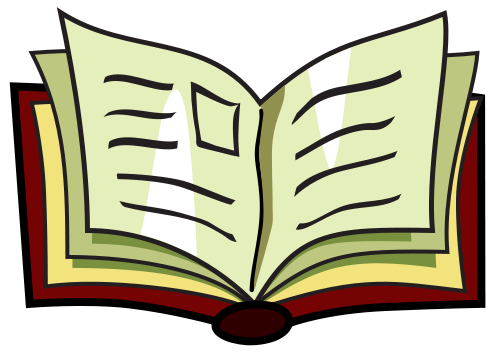
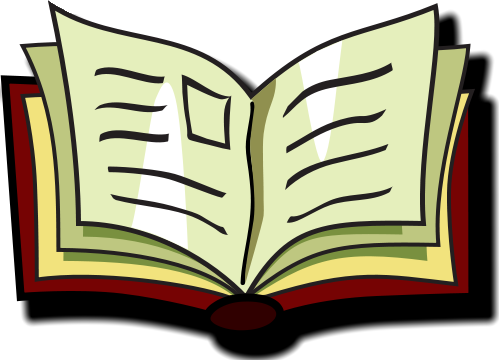
recipes page mobile portrait views complete

diff --git a/src/components/Recipes/Recipes.css b/src/components/Recipes/Recipes.css
@@ -2,6 +2,9 @@
     text-align: center;
     margin-left: auto;
     margin-right: auto;
+    box-shadow: 0 -5px 10px -5px;
+    width: 100vw;
+    height: 100vh;
 }
 
 .Recipes_title {
@@ -12,37 +15,46 @@
 
 .RecipesList_container {
     background-image: url('../../assets/open_book.png');
-    background-size: 90% 90%;
+    background-size: 100% 100%;
     background-repeat: no-repeat;
-    margin-left: auto;
+    margin-left: 4%;
     margin-right: auto;
     display: block;
-    width: 95vw;
-    height: 60vh;
+    width: 90vw;
+    height: 55vh;
     padding: 2vh;
 }
 
 .RecipesList {
-    width: 85%;
-    margin-left: 4.5%;
+    width: 80%;
+    margin-left: 15%;
     margin-right: auto;
     margin-bottom: 1vh;
-    margin-top: .5vh;
-    height: 49vh;
+    height: 96%;
     overflow: scroll;
     padding: 1vh;
-    padding-left: 11vw;
     font-weight: bolder;
     border-radius: 15px;
+    background-color: #F0EAD6;
 }
 
 .Recipes .ingredients {
-    border: 5px solid black;
-    border-radius: 15px;
-    background-color: white;
-    padding: 10px;
+    background-image: url('../../assets/boxed_food.png');
+    background-color: transparent;
+    background-repeat: no-repeat;
+    background-size: 100%;
+    width: 30vw;
+    height: 18vh;
+    border: none;
     display: block;
     margin-left: auto;
     margin-right: auto;
     font-weight: bolder;
+}
+
+/* iPad 768x1024 Portrait */
+@media only screen and (min-width: 768px) and (min-height: 1024px) {
+    .Recipes {
+
+    }
 }

diff --git a/src/components/Pantry/Pantry.css b/src/components/Pantry/Pantry.css
@@ -1,6 +1,6 @@
 /* Mobile Phone Portrait */
 .Pantry {
-    box-shadow: -1px -5px 10px;
+    box-shadow: 0 -5px 10px -5px;
 }
 
 .Pantry_title {
@@ -107,10 +107,6 @@
 }
 
 .recipes {
-    border-bottom: .5vh solid rgb(90, 88, 80);
-    border-right: .5vh solid rgb(90, 88, 80);
-    border-radius: 15px;
-    background-color: #F0EAD6;
     padding: 5px;
     display: block;
     margin-top: 4vh;
@@ -118,7 +114,6 @@
     margin-right: auto;
     font-weight: bolder;
     width: 30vw;
-    box-shadow: 10px 10px 10px black;
 }
 
 /* iPhone X 375x812 Portrait */

diff --git a/src/components/GuestRecipes/GuestRecipes.js b/src/components/GuestRecipes/GuestRecipes.js
@@ -35,7 +35,7 @@ export default class GuestRecipes extends React.Component {
                         {this.renderRecipes()}
                     </ul>
                 </section>
-                <button className='ingredients' onClick={this.handleIngredientsClick}>Ingredients</button>
+                <button className='ingredients' onClick={this.handleIngredientsClick} />
             </div>
         );
     };

diff --git a/src/components/Landing/Landing.css b/src/components/Landing/Landing.css
@@ -1,7 +1,7 @@
 /* Mobile Phone Portrait */
 .Landing {
     height: 100vh;
-    box-shadow: -1px -5px 10px;
+    box-shadow: 0 -5px 10px -5px;
 }
 
 .description {

diff --git a/src/components/Register/Register.css b/src/components/Register/Register.css
@@ -1,6 +1,6 @@
 /* Mobile Phone Portrait */
 .Register_main {
-    box-shadow: -1px -5px 10px;
+    box-shadow: 0 -5px 10px -5px;
 }
 
 .Register_title {
